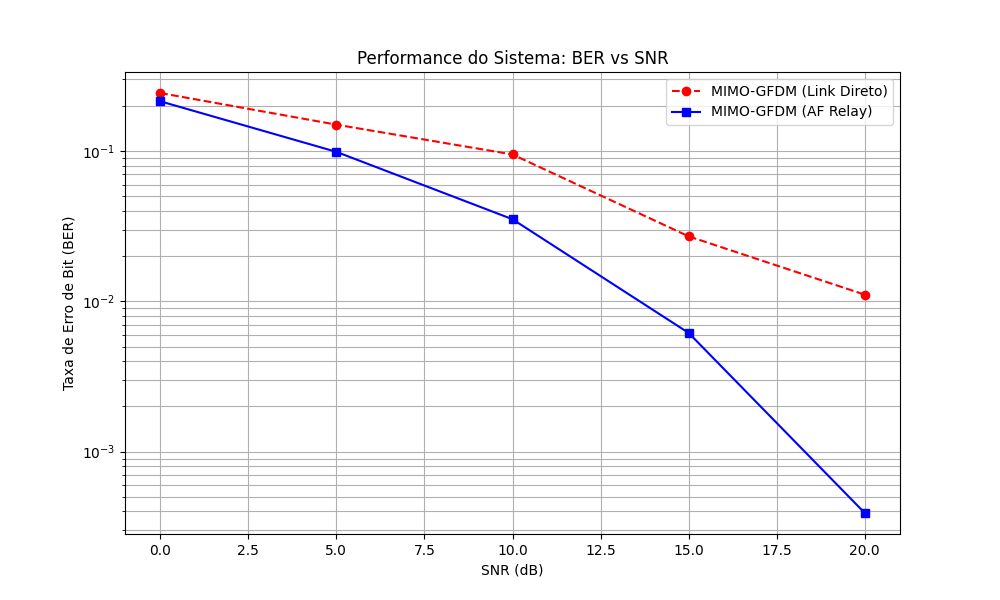
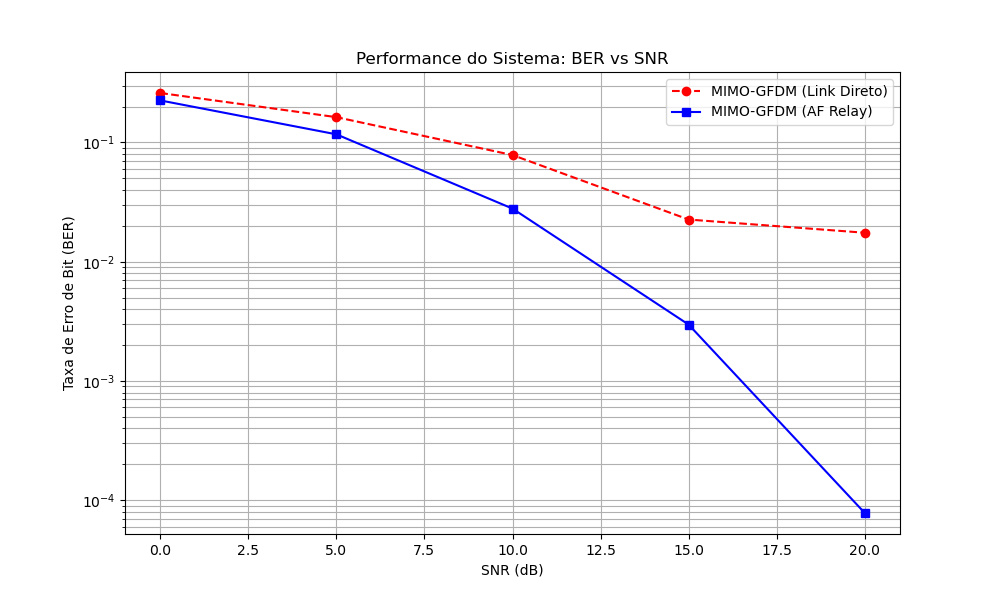
docs: update documentation with embedded visual charts in README and project docs

diff --git a/README.md b/README.md
@@ -68,8 +68,22 @@ python main.py
 A execução gera automaticamente **3 relatórios gráficos em alta qualidade** salvos na raiz do seu projeto:
 
 - `ber_vs_snr.png`: Gráfico *Waterfall* logarítmico provando o ganho da antena Relay contra o desvanecimento do link direto.
+  
+  <p align="center">
+    <img src="ber_vs_snr.png" alt="BER vs SNR" width="600"/>
+  </p>
+
 - `fitness_evolution.png`: Gráfico temporal exibindo as tentativas da IA, a estabilização do ganho de internet (eixo Y1) e a queda do ruído (eixo Y2).
+
+  <p align="center">
+    <img src="fitness_evolution.png" alt="Evolução da Fitness" width="600"/>
+  </p>
+
 - `comparison.png`: Gráfico de barras atestando a diferença de Vazão e Erro (O *Trade-Off* matemático) após a aplicação dos resultados da inteligência artificial.
+
+  <p align="center">
+    <img src="comparison.png" alt="Comparação Antes e Depois" width="600"/>
+  </p>
 
 ---
 

diff --git a/docs/graficos.md b/docs/graficos.md
@@ -3,15 +3,24 @@
 Ao rodar a simulação, três relatórios visuais são salvos na pasta base:
 
 ## 1. `ber_vs_snr.png` (Curva em Cascata Logarítmica)
+<p align="center">
+  <img src="../ber_vs_snr.png" alt="BER vs SNR" width="600"/>
+</p>
 - **O Eixo X (Horizontal)** é a força do sinal em relação ao ruído ambiente (SNR, medido em dB). Andar para a direita significa possuir um equipamento melhor com menos interferência estática no ar.
 - **O Eixo Y (Vertical)** é o BER (Bit Error Rate), ou a proporção de pacotes arruinados na conexão. Está numa escala de Log10 para facilitar a visualização que decai muito severamente.
 - **Explicação:** A comparação exibe que a linha azul (com AF Relay Cooperativo ligado) decai muito mais rápido que a vermelha (Link direto sem relay), provando empiricamente o **Ganho de Diversidade Espacial** que um repetidor inteligente fornece, mitigando o problema do desvanecimento profundo sem precisar estourar a bateria do celular.
 
 ## 2. `fitness_evolution.png` (O Algoritmo Genético)
+<p align="center">
+  <img src="../fitness_evolution.png" alt="Evolução da Fitness" width="600"/>
+</p>
 - **O Eixo X (Horizontal)** representa o relógio biológico-evolutivo, as passagens de Gerações.
 - **Múltiplos Eixos:** A linha Azul contínua e tracejada pontuam a Vazão absoluta de dados (Throughput) para os melhores e a média, respectivamente. A linha Vermelha mede os erros persistentes durante a comunicação.
 - **Explicação:** Mostra o Computador resolvendo o problema não-linear de otimização no escuro. Repare que perto das primeiras rodadas, o software tenta forçar sinais com Throughput altíssimos mas que geram taxas de perdas imensas porque ele usa parâmetros errados. Em meados da geração 10 e diante, as linhas vermelhas desmoronam de nível e o throughput atinge o nível mais alto suportável matematicamente pelo ambiente sem corromper a comunicação de forma fatal, indicando convergência e maturidade celular.
 
 ## 3. `comparison.png` (Gráfico de Barras Duplas)
+<p align="center">
+  <img src="../comparison.png" alt="Comparação Antes e Depois" width="600"/>
+</p>
 - Exibe dezenas de barras de medição mostrando o Antes versus o Depois.
 - **Explicação:** Demonstra visivelmente os conceitos abstratos de compensação (o "Trade-Off"). O computador foi capaz de aumentar sua transmissão para velocidades assustadoras ao encontrar chaves ideais de potência e arranjos QAM perfeitos para aquele instante. Contudo, essa velocidade extra gera mais perdas parciais (O BER no otimizado é discretamente mais elevado, mas contido no nível de restrição exigido pela função de custo). Isso é a Engenharia operando em prol do aproveitamento de eficiência espectral!